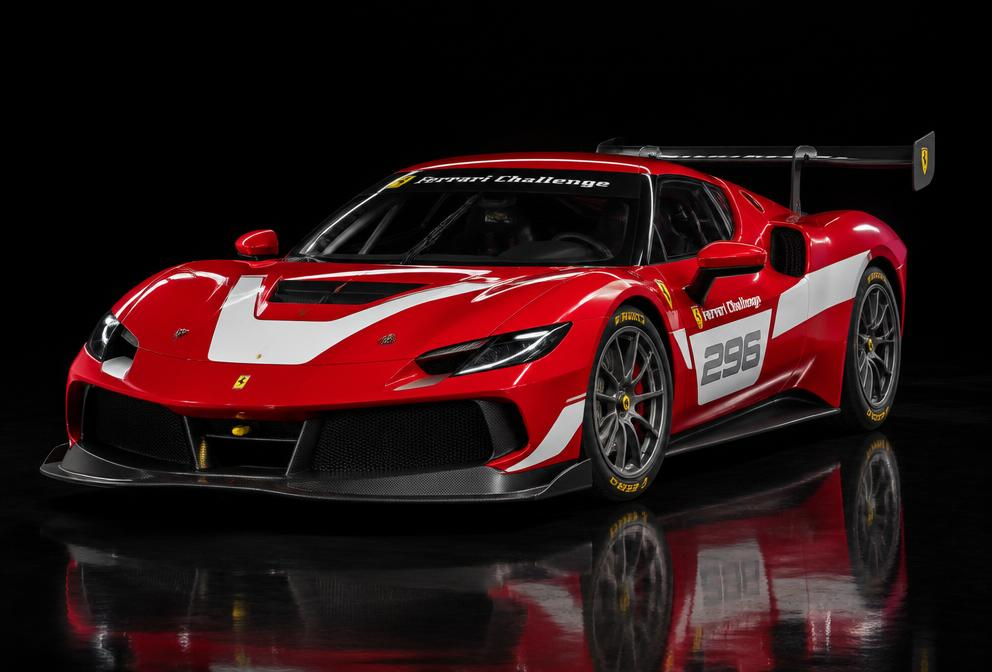
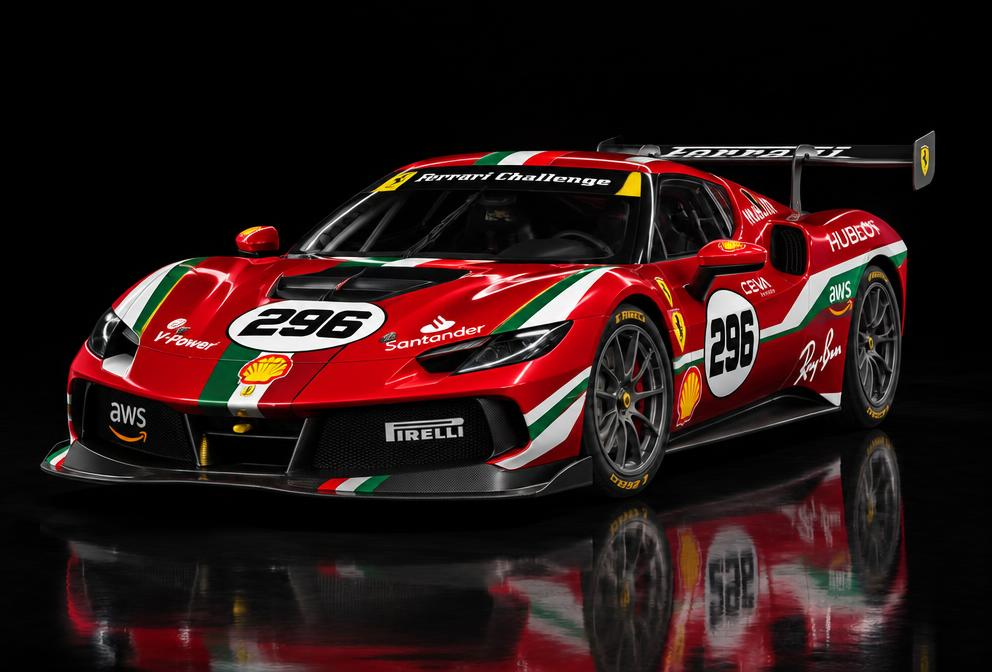
Add Assetto Corsa to the home page, new humidity art, synced inputs, new car pictures
- Home page: Assetto Corsa between iRacing and ACC in Compatible sims, in every
  language, with what it supports (lap recording, uploads and lap analysis).
- TV weather center: the humidity picture is now a cluster of water droplets,
  the big one filled to the humidity, with a drop falling.
- Live Racing and TV Broadcast Mode: the driver inputs (wheel, gear, throttle,
  brake) are played back at the same moment the map shows when it's
  synchronized with the live video: max(1.6 s buffering, the sync delay).
  Live Racing keeps its own buffer of samples, as the server holds only 12 s;
  the TV takes the inputs from the live picture so the delay isn't applied
  twice (they used to lag the map by the extra 1.6 s).
- Car pictures: 26 replaced with the ones from racing-livery-studio.
- Remove gpt-5.4-mini and gpt-5.5, which are being deprecated; a saved choice
  of either falls back to the default when read.

diff --git a/src/components/LiveRacing.tsx b/src/components/LiveRacing.tsx
@@ -5,7 +5,7 @@ import DriverCarStatus from '@/components/DriverCarStatus';
 import { useLanguage } from '@/components/LanguageProvider';
 import LiveDriverMessage from '@/components/LiveDriverMessage';
 import LiveDriverRadio from '@/components/LiveDriverRadio';
-import LiveInputs, { type TimedSample } from '@/components/LiveInputs';
+import LiveInputs, { inputsDelay, INPUT_TRACE_MS, type TimedSample } from '@/components/LiveInputs';
 import LiveLeaderboard, { type LeaderboardDriver, runningOrder } from '@/components/LiveLeaderboard';
 import LiveSessionBanner from '@/components/LiveSessionBanner';
 import LiveSessionStatus from '@/components/LiveSessionStatus';
@@ -20,7 +20,7 @@ import WeatherRadar from '@/components/WeatherRadar';
 import { fittedTire, fuelStatus, isWetSession } from '@/lib/liveCarStatus';
 import { engineBed, linkSpeech } from '@/lib/engineBed';
 import { ELEVENLABS_PROVIDER, SPEECH_PROVIDER_HEADER, type EngineBedConfig } from '@/lib/engineBedConfig';
-import type { LiveDriver, LiveField } from '@/lib/liveRacing';
+import type { InputSample, LiveDriver, LiveField } from '@/lib/liveRacing';
 import { formatLapTime as lapTime } from '@/lib/liveRacingFormat';
 import { liveLimitPauseMs, reportRateLimit } from '@/lib/rateLimitClient';
 import { useMapSettings } from '@/lib/satelliteImagery';
@@ -247,6 +247,10 @@ export default function LiveRacing({
   const [samples, setSamples] = useState<TimedSample[]>([]);
   // Page clock (ms) minus the collector's SessionTime (ms), for the focused driver's samples
   const offset = useRef<{ driver: number; ms: number } | null>(null);
+  // The focused driver's inputs received so far (by SessionTime), and the map's synchronization delay, which they're
+  // played back behind too
+  const rawInputs = useRef<{ driver: number; samples: InputSample[] } | null>(null);
+  const inputDelayRef = useRef(0);
   // The Race Announcers turned on, and the focused driver's newest race event already commentated (or there when the
   // page started watching them); one request at a time, its lines queued (CommentaryQueue: one at a time, a more
   // important commentary replacing less important lines still waiting, lines past their moment dropped) and played
@@ -340,8 +344,19 @@ export default function LiveRacing({
               const kept = offset.current?.driver === focused.userId && Math.abs(offset.current.ms - ms) < OFFSET_TOLERANCE_MS;
               if (!kept) offset.current = { driver: focused.userId, ms };
               const base = offset.current!.ms;
-              setSamples(inputs.map((sample) => ({ at: base + sample[0] * 1000, sample })));
+              // The server keeps only its last 12 s, so the page adds each answer's newer samples to its own, enough
+              // to play them back as far behind live as the synchronized map is (by SessionTime; a SessionTime going
+              // back is a new session, and another driver starts over)
+              const raw = rawInputs.current;
+              const newest = raw?.samples[raw.samples.length - 1]?.[0] ?? -Infinity;
+              const restart = !raw || raw.driver !== focused.userId || inputs[inputs.length - 1][0] < newest;
+              const keepS = (inputsDelay(inputDelayRef.current) + INPUT_TRACE_MS + 4000) / 1000;
+              const merged = [...(restart ? [] : raw.samples), ...inputs.filter((s) => restart || s[0] > newest)];
+              const cutoff = merged[merged.length - 1][0] - keepS;
+              rawInputs.current = { driver: focused.userId, samples: merged.filter((s) => s[0] > cutoff) };
+              setSamples(rawInputs.current.samples.map((sample) => ({ at: base + sample[0] * 1000, sample })));
             } else if (!focused?.onTrack) {
+              rawInputs.current = null;
               setSamples([]);
             }
           }
@@ -403,6 +418,9 @@ export default function LiveRacing({
     estimatedLatencyMs: videoMetrics?.latencyS != null ? videoMetrics.latencyS * 1000 : null,
   });
   const shownDrivers = useDelayedDrivers(drivers, mapDelay.delayMs);
+  useEffect(() => {
+    inputDelayRef.current = mapDelay.delayMs;
+  }, [mapDelay.delayMs]);
 
   const groups = useMemo(() => {
     const byTrack = new Map<string, Received[]>();
@@ -885,6 +903,7 @@ export default function LiveRacing({
                       color={colors.get(focusedHere.userId) ?? COLORS[0]}
                       incidents={focusedHere.incidents ?? null}
                       samples={samples}
+                      syncDelayMs={mapDelay.delayMs}
                     />
                     <LiveDriverRadio radio={focusedHere.radio ?? []} play={playRadio} onPlayChange={togglePlayRadio} error={radioError} />
                     {showAnnouncers && (

diff --git a/src/components/WeatherArt.tsx b/src/components/WeatherArt.tsx
@@ -267,31 +267,57 @@ export function ThermometerPicture({ celsius, hot = false, className, title }: A
   );
 }
 
-// A water drop, filled to the humidity (0-1)
+// A drop shape whose tip is at (cx, top), r wide at its round bottom
+function dropPath(cx: number, top: number, r: number) {
+  const bottom = top + r * 2.9;
+  const mid = bottom - r;
+  return `M${cx} ${top} C${cx} ${top} ${cx - r} ${mid - r * 0.6} ${cx - r} ${mid} A${r} ${r} 0 0 0 ${cx + r} ${mid} C${cx + r} ${mid - r * 0.6} ${cx} ${top} ${cx} ${top} Z`;
+}
+
+// Water droplets: a cluster of three glossy drops, the big one filled to the humidity (0-1), and a small drop falling
+// beside them
 export function HumidityPicture({ humidity, className, title }: ArtProps & { humidity: number | null }) {
   const id = useId().replace(/:/g, '');
   const share = Math.min(Math.max(humidity ?? 0, 0), 1);
-  const drop = 'M50 10 C50 10 22 44 22 62 C22 78 35 90 50 90 C65 90 78 78 78 62 C78 44 50 10 50 10 Z';
+  const big = dropPath(44, 14, 24);
+  const top = 14;
+  const bottom = top + 24 * 2.9;
+  const level = bottom - (bottom - top) * share;
   return (
     <svg viewBox="0 0 100 100" className={className} role="img" aria-label={title}>
       {title && <title>{title}</title>}
       <defs>
         <clipPath id={`${id}-clip`}>
-          <path d={drop} />
+          <path d={big} />
         </clipPath>
-        <linearGradient id={`${id}-water`} x1="0" y1="0" x2="0" y2="1">
-          <stop offset="0%" stopColor="#7cc7ff" />
-          <stop offset="100%" stopColor="#1d6fe0" />
+        <linearGradient id={`${id}-water`} x1="0" y1="0" x2="1" y2="1">
+          <stop offset="0%" stopColor="#8fd3ff" />
+          <stop offset="100%" stopColor="#1763d6" />
         </linearGradient>
+        <radialGradient id={`${id}-bead`} cx="35%" cy="60%" r="70%">
+          <stop offset="0%" stopColor="#c8ecff" />
+          <stop offset="55%" stopColor="#4aa8f5" />
+          <stop offset="100%" stopColor="#1458c4" />
+        </radialGradient>
       </defs>
-      <path d={drop} fill="#ffffff" fillOpacity="0.08" stroke="#bfe3ff" strokeOpacity="0.8" strokeWidth="3" />
+      {/* The big drop: an outline, filled from the bottom to the humidity */}
+      <path d={big} fill="#ffffff" fillOpacity="0.07" stroke="#bfe3ff" strokeOpacity="0.85" strokeWidth="2.5" />
       <g clipPath={`url(#${id}-clip)`}>
-        <rect x="0" y={90 - 80 * share} width="100" height="100" fill={`url(#${id}-water)`} />
-        <path d={`M0 ${90 - 80 * share} Q25 ${86 - 80 * share} 50 ${90 - 80 * share} T100 ${90 - 80 * share}`} fill="none" stroke="#e0f2fe" strokeOpacity="0.7" strokeWidth="2">
-          <animateTransform attributeName="transform" type="translate" values="-10 0; 10 0; -10 0" dur="4s" repeatCount="indefinite" />
+        <rect x="0" y={level} width="100" height="100" fill={`url(#${id}-water)`} />
+        <path d={`M0 ${level} Q15 ${level - 3} 30 ${level} T60 ${level} T90 ${level} T120 ${level}`} fill="none" stroke="#e0f2fe" strokeOpacity="0.75" strokeWidth="2">
+          <animateTransform attributeName="transform" type="translate" values="-12 0; 0 0; -12 0" dur="4s" repeatCount="indefinite" />
         </path>
       </g>
-      <path d="M36 54 C36 46 40 40 44 35" fill="none" stroke="#fff" strokeOpacity="0.7" strokeWidth="3.5" strokeLinecap="round" />
+      <path d="M30 60 C30 52 33 45 37 39" fill="none" stroke="#fff" strokeOpacity="0.75" strokeWidth="3.5" strokeLinecap="round" />
+      {/* Two smaller beads beside it */}
+      <path d={dropPath(80, 44, 11)} fill={`url(#${id}-bead)`} stroke="#bfe3ff" strokeOpacity="0.6" strokeWidth="1.5" />
+      <path d="M75 66 C75 63 76 60 78 58" fill="none" stroke="#fff" strokeOpacity="0.8" strokeWidth="2" strokeLinecap="round" />
+      <path d={dropPath(70, 74, 6)} fill={`url(#${id}-bead)`} stroke="#bfe3ff" strokeOpacity="0.6" strokeWidth="1.2" />
+      {/* A tiny drop falling */}
+      <path d={dropPath(80, 8, 4)} fill={`url(#${id}-bead)`}>
+        <animateTransform attributeName="transform" type="translate" values="0 0; 0 22; 0 22" keyTimes="0; 0.85; 1" dur="2.6s" repeatCount="indefinite" />
+        <animate attributeName="opacity" values="0; 1; 1; 0" keyTimes="0; 0.15; 0.75; 1" dur="2.6s" repeatCount="indefinite" />
+      </path>
     </svg>
   );
 }

diff --git a/src/components/TvInputs.tsx b/src/components/TvInputs.tsx
@@ -5,7 +5,7 @@ import { useLanguage } from '@/components/LanguageProvider';
 import {
   BRAKE_COLOR,
   DELTA_RANGE_S,
-  PLAYBACK_DELAY_MS,
+  inputsDelay,
   THROTTLE_COLOR,
   valuesAt,
   type Shown,
@@ -19,16 +19,19 @@ import { SPEED_UNIT, speedFromMetersPerSecond } from '@/lib/units';
 // TV Broadcast Mode's Driver Inputs: the Live Racing page's panel (LiveInputs) sized for a TV across the room: the
 // followed driver's delta to their best lap and a throttle and brake trace, then their throttle and brake bars,
 // steering wheel, gear and speed, in one strip under the map. Each picture of the race carries the last few seconds of inputs; they're kept here (KEEP_MS) and played
-// back PLAYBACK_DELAY_MS behind, as on the Live Racing page, but redrawn at most FPS times a second for low-powered TVs.
+// back as far behind live as the map is (inputsDelay: the synchronized broadcast's delay, else PLAYBACK_DELAY_MS), as on the
+// Live Racing page, but redrawn at most FPS times a second for low-powered TVs. They come from the live picture, not the
+// delayed one, so the delay is applied once, here.
 
 const FPS = 20;
-const KEEP_MS = 12_000;
+// Kept beyond the delay: the trace and some slack
+const KEEP_EXTRA_MS = 12_000;
 const TRACE_MS = 8000;
 // A new clock offset this close to the last is network timing noise, and the samples keep the old one
 const OFFSET_TOLERANCE_MS = 400;
 
 // Keeps the followed driver's inputs on this page's clock, adding each picture's newer samples
-function useInputSamples(driverId: number, inputs: InputSample[] | null, inputsAgeMs: number, receivedAt: number): TimedSample[] {
+function useInputSamples(driverId: number, inputs: InputSample[] | null, inputsAgeMs: number, receivedAt: number, keepMs: number): TimedSample[] {
   const kept = useRef<{ driverId: number; offset: number; samples: TimedSample[] } | null>(null);
   const [samples, setSamples] = useState<TimedSample[]>([]);
   useEffect(() => {
@@ -45,9 +48,9 @@ function useInputSamples(driverId: number, inputs: InputSample[] | null, inputsA
     }
     const base = k.offset;
     const added = inputs.filter((s) => s[0] > newest).map((sample) => ({ at: base + sample[0] * 1000, sample }));
-    k.samples = [...k.samples, ...added].filter((s) => s.at > receivedAt - KEEP_MS);
+    k.samples = [...k.samples, ...added].filter((s) => s.at > receivedAt - keepMs);
     setSamples(k.samples);
-  }, [driverId, inputs, inputsAgeMs, receivedAt]);
+  }, [driverId, inputs, inputsAgeMs, receivedAt, keepMs]);
   return samples;
 }
 
@@ -70,6 +73,7 @@ export default function TvInputs({
   inputs,
   inputsAgeMs,
   receivedAt,
+  syncDelayMs = 0,
 }: {
   driverId: number;
   color: string;
@@ -77,10 +81,17 @@ export default function TvInputs({
   inputsAgeMs: number;
   // When this page received the picture the inputs came with (performance.now())
   receivedAt: number;
+  // The synchronized broadcast's delay (the map's), which the inputs are played behind too
+  syncDelayMs?: number;
 }) {
   const { t } = useLanguage();
   const units = useUnits();
-  const samples = useInputSamples(driverId, inputs, inputsAgeMs, receivedAt);
+  const delay = inputsDelay(syncDelayMs);
+  const samples = useInputSamples(driverId, inputs, inputsAgeMs, receivedAt, delay + KEEP_EXTRA_MS);
+  const delayRef = useRef(delay);
+  useEffect(() => {
+    delayRef.current = delay;
+  }, [delay]);
   const samplesRef = useRef(samples);
   useEffect(() => {
     samplesRef.current = samples;
@@ -95,7 +106,7 @@ export default function TvInputs({
       if (now - last < 1000 / FPS - 1) return;
       last = now;
       const all = samplesRef.current;
-      const at = now - PLAYBACK_DELAY_MS;
+      const at = now - delayRef.current;
       const values = valuesAt(all, at);
       const trace = all
         .filter((s) => s.at <= at && s.at >= at - TRACE_MS)

diff --git a/src/components/LiveInputs.tsx b/src/components/LiveInputs.tsx
@@ -17,7 +17,14 @@ import { SPEED_UNIT, speedFromMetersPerSecond } from '@/lib/units';
 export type TimedSample = { at: number; sample: InputSample };
 
 export const PLAYBACK_DELAY_MS = 1600;
-const TRACE_MS = 8000;
+export const INPUT_TRACE_MS = 8000;
+const TRACE_MS = INPUT_TRACE_MS;
+
+// How far behind live the inputs are played: the moment the map shows when it's synchronized with the live video
+// (syncDelayMs, the map's delay), but never less than PLAYBACK_DELAY_MS, the samples' own buffering
+export function inputsDelay(syncDelayMs: number): number {
+  return Math.max(PLAYBACK_DELAY_MS, syncDelayMs > 0 ? syncDelayMs : 0);
+}
 // The delta bar's full width, each way, in seconds
 export const DELTA_RANGE_S = 1;
 export const THROTTLE_COLOR = '#22C55E';
@@ -99,6 +106,7 @@ export default function LiveInputs({
   color,
   incidents,
   samples,
+  syncDelayMs = 0,
 }: {
   driver: string;
   driverId: number;
@@ -106,6 +114,8 @@ export default function LiveInputs({
   color: string;
   incidents: number | null;
   samples: TimedSample[];
+  // The map's delay while it's synchronized with the live video, which the inputs are played behind too
+  syncDelayMs?: number;
 }) {
   const { t, fmt } = useLanguage();
   const units = useUnits();
@@ -113,13 +123,17 @@ export default function LiveInputs({
   useEffect(() => {
     samplesRef.current = samples;
   }, [samples]);
+  const delayRef = useRef(inputsDelay(syncDelayMs));
+  useEffect(() => {
+    delayRef.current = inputsDelay(syncDelayMs);
+  }, [syncDelayMs]);
   const [shown, setShown] = useState<Shown | null>(null);
 
   useEffect(() => {
     let id = 0;
     const tick = (now: number) => {
       const all = samplesRef.current;
-      const at = now - PLAYBACK_DELAY_MS;
+      const at = now - delayRef.current;
       const values = valuesAt(all, at);
       const trace = all
         .filter((s) => s.at <= at && s.at >= at - TRACE_MS)

diff --git a/src/components/TvBroadcast.tsx b/src/components/TvBroadcast.tsx
@@ -142,6 +142,7 @@ export default function TvBroadcast({
   const [camera, setCamera] = useState<CameraSource>('TRACK_MAP');
   const timeline = useBroadcastTimeline(liveState, liveVideo?.sync ?? null, metrics, liveVideo?.stream?.status === 'LIVE');
   const state = timeline.state;
+  const liveFocus = liveState?.focus ?? null;
   const focus = state?.focus ?? null;
   // The Director's latest word: an older message arriving late doesn't undo it
   const incoming = focus?.director ?? null;
@@ -554,9 +555,11 @@ export default function TvBroadcast({
                 <TvInputs
                   driverId={focus.driverId}
                   color={focus.color}
-                  inputs={focus.inputs}
-                  inputsAgeMs={focus.inputsAgeMs}
-                  receivedAt={state.receivedAt}
+                  // The live picture's inputs, played back as far behind as the synchronized map
+                  inputs={liveFocus?.driverId === focus.driverId ? liveFocus.inputs : focus.inputs}
+                  inputsAgeMs={liveFocus?.driverId === focus.driverId ? liveFocus.inputsAgeMs : focus.inputsAgeMs}
+                  receivedAt={liveFocus?.driverId === focus.driverId && liveState ? liveState.receivedAt : state.receivedAt}
+                  syncDelayMs={liveFocus?.driverId === focus.driverId ? timeline.appliedDelayMs : 0}
                 />
               ) : (
                 <p className="text-[22px] leading-snug text-[#a7b0bd]">{t.liveRacing.inputsWaiting}</p>

diff --git a/src/lib/aiModels.ts b/src/lib/aiModels.ts
@@ -137,7 +137,7 @@ class ClaudeChatModel extends ChatAnthropic {
 }
 
 // LangChain only has profiles for the OpenAI models it knew when it was released, and without one createAgent falls
-// back to a forced tool call for responseFormat, which leaves structuredResponse empty (seen with gpt-5.4-mini).
+// back to a forced tool call for responseFormat, which leaves structuredResponse empty (seen with OpenAI's newer mini models).
 // Every gpt-5 model supports JSON-schema output, so say so.
 class OpenAIReasoningChatModel extends ChatOpenAI {
   get profile() {
@@ -159,7 +159,7 @@ class DeepSeekChatModel extends ChatOpenAI {
 
 // The chat model for a feature. OpenAI reasoning models get low effort instead of the temperature, since their
 // reasoning is billed as output tokens. They go through the Responses API, as Chat Completions refuses tools
-// with a reasoning effort for newer models (e.g. gpt-5.5), so read replies with .text, not .content. Claude models
+// with a reasoning effort for newer models (e.g. gpt-5.4), so read replies with .text, not .content. Claude models
 // (claude-*) always think and refuse a temperature, so they get low effort too. DeepSeek models (deepseek-*) go to
 // DeepSeek's API with thinking off. Inside an AI route's limit.track(), every call's tokens are added to its AiUsage
 // row (src/lib/aiTokenUsage.ts). Pass model to use it instead of the feature's picked model (e.g. a fallback).

diff --git a/src/lib/i18n/dictionaries/es.ts b/src/lib/i18n/dictionaries/es.ts
@@ -286,6 +286,7 @@ export const es: Dictionary = {
     simsSupported: 'Compatible',
     sims: [
       { name: 'iRacing', features: 'Grabación de vueltas, el Coach de IA en el Auto, overlays, pitidos de frenado, Radio del Piloto, Carreras en Vivo y resultados de carreras' },
+      { name: 'Assetto Corsa', features: 'Grabación de vueltas, subidas y análisis de vueltas: Comparación de Vueltas, Análisis de Varias Vueltas y el Debrief Coach' },
       { name: 'Assetto Corsa Competizione', features: 'Grabación de vueltas, el Coach de IA en el Auto, overlays, pitidos de frenado, Radio del Piloto y Carreras en Vivo' },
     ],
     teamEyebrow: 'Tu equipo de carrera con IA',

diff --git a/src/lib/i18n/dictionaries/pt.ts b/src/lib/i18n/dictionaries/pt.ts
@@ -286,6 +286,7 @@ export const pt: Dictionary = {
     simsSupported: 'Compatível',
     sims: [
       { name: 'iRacing', features: 'Gravação de voltas, o Coach de IA no Carro, overlays, bipes de frenagem, Rádio do Piloto, Corridas ao Vivo e resultados de corridas' },
+      { name: 'Assetto Corsa', features: 'Gravação de voltas, envios e análise de voltas: Comparação de Voltas, Análise de Várias Voltas e o Debrief Coach' },
       { name: 'Assetto Corsa Competizione', features: 'Gravação de voltas, o Coach de IA no Carro, overlays, bipes de frenagem, Rádio do Piloto e Corridas ao Vivo' },
     ],
     teamEyebrow: 'Sua equipe de corrida com IA',

diff --git a/src/lib/aiModelPrices.ts b/src/lib/aiModelPrices.ts
@@ -16,9 +16,7 @@ export const AI_MODEL_PRICES: Record<AiModel, AiModelPrice> = {
   'gpt-5': { input: 1.25, cachedInput: 0.125, output: 10 },
   'gpt-5.1': { input: 1.25, cachedInput: 0.125, output: 10 },
   'gpt-5.2': { input: 1.75, cachedInput: 0.175, output: 14 },
-  'gpt-5.4-mini': { input: 0.75, cachedInput: 0.075, output: 4.5 },
   'gpt-5.4': { input: 2.5, cachedInput: 0.25, output: 15 },
-  'gpt-5.5': { input: 5, cachedInput: 0.5, output: 30 },
   'claude-sonnet-5-5': { input: 2, cachedInput: 0.2, output: 10 },
   'claude-opus-5-5': { input: 4, cachedInput: 0.2, output: 20 },
   'deepseek-flash': { input: 0.14, cachedInput: 0.028, output: 0.28 },

diff --git a/src/lib/i18n/dictionaries/de.ts b/src/lib/i18n/dictionaries/de.ts
@@ -292,6 +292,7 @@ export const de: Dictionary = {
     simsSupported: 'Unterstützt',
     sims: [
       { name: 'iRacing', features: 'Rundenaufzeichnung, der KI-Coach im Auto, Overlays, Brems-Pieptöne, Fahrerfunk, Live-Rennen und Rennergebnisse' },
+      { name: 'Assetto Corsa', features: 'Rundenaufzeichnung, Uploads und Rundenanalyse: Rundenvergleich, Mehrrunden-Analyse und der Debrief-Coach' },
       { name: 'Assetto Corsa Competizione', features: 'Rundenaufzeichnung, der KI-Coach im Auto, Overlays, Brems-Pieptöne, Fahrerfunk und Live-Rennen' },
     ],
     teamEyebrow: 'Dein KI-Rennteam',

diff --git a/src/lib/i18n/dictionaries/en.ts b/src/lib/i18n/dictionaries/en.ts
@@ -293,6 +293,7 @@ export const en = {
     simsSupported: 'Supported',
     sims: [
       { name: 'iRacing', features: 'Lap recording, the In-Car AI Coach, overlays, brake beeps, Driver Radio, Live Racing and race results' },
+      { name: 'Assetto Corsa', features: 'Lap recording, uploads and lap analysis: Lap Compare, Multi-Lap Analysis and the Debrief Coach' },
       { name: 'Assetto Corsa Competizione', features: 'Lap recording, the In-Car AI Coach, overlays, brake beeps, Driver Radio and Live Racing' },
     ],
     teamEyebrow: 'Your AI race team',

diff --git a/src/lib/rateLimits.ts b/src/lib/rateLimits.ts
@@ -667,7 +667,7 @@ export type UsageFeature = {
   // Calls with tokens recorded and their model calls, for the averages per call
   trackedCalls: number;
   modelCalls: number;
-  // The models the calls used, e.g. "gpt-5-mini, gpt-5.5"
+  // The models the calls used, e.g. "gpt-5-mini, gpt-5.4"
   models: string | null;
 };
 
